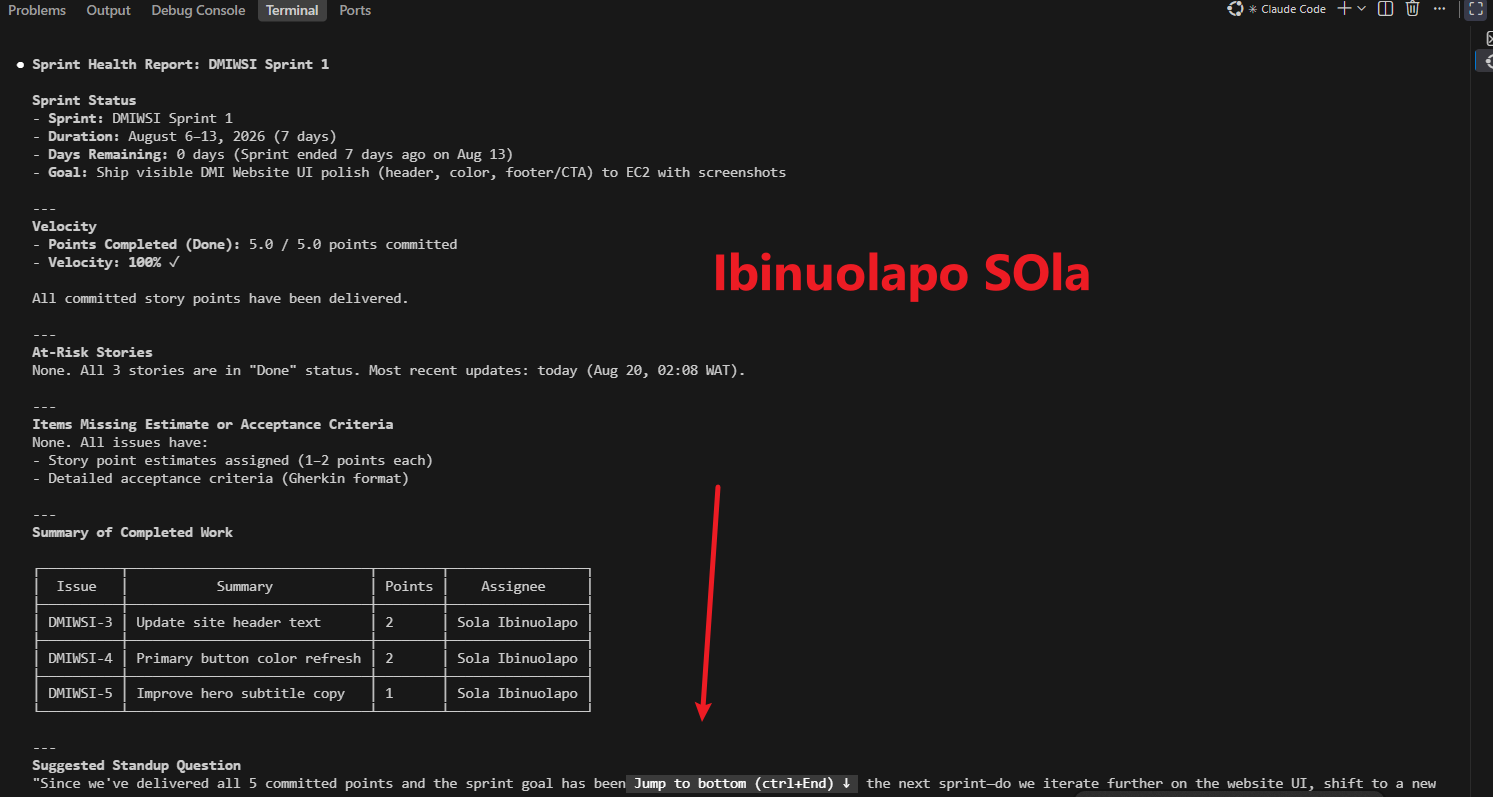
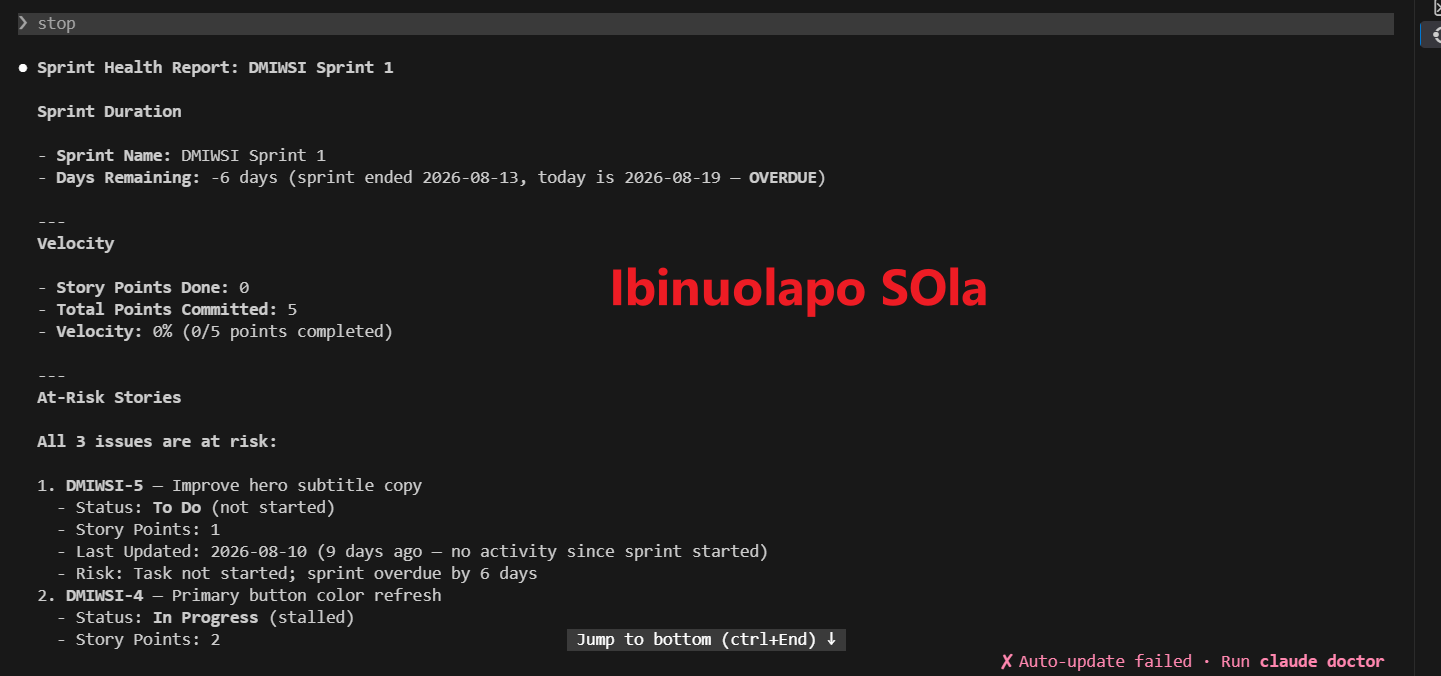
aws uncompleted assignmet add

diff --git a/week-06-aws-cloud/assignment-05-deploy-a-highly-available-two-tier-application-on-aws.md b/week-06-aws-cloud/assignment-05-deploy-a-highly-available-two-tier-application-on-aws.md
@@ -20,31 +20,31 @@ Build a VPC (10.0.0.0/16) with two public and two private subnets across two Ava
 
 #### Screenshot 1 — VPC details showing CIDR 10.0.0.0/16
 
-Add your screenshot here.
+![alt text](image-32.png)
 
 ---
 
 #### Screenshot 2 — Subnets list showing four subnets and their Availability Zones
 
-Add your screenshot here.
+![alt text](image-33.png)
 
 ---
 
 #### Screenshot 3 — Public route table showing the Internet Gateway route and both public-subnet associations
 
-Add your screenshot here.
+![alt text](image-34.png)
 
 ---
 
 #### Screenshot 4 — Private route table showing the NAT Gateway route and both private-subnet associations
 
-Add your screenshot here.
+![alt text](image-35.png)
 
 ---
 
 #### Screenshot 5 — NAT Gateway status showing Available and the Elastic IP
 
-Add your screenshot here.
+![alt text](image-36.png)
 
 ---
 
@@ -58,19 +58,19 @@ Create `ha-alb-sg` (HTTP public), `ha-web-sg` (HTTP only from `ha-alb-sg`, SSH f
 
 #### Screenshot 6 — ALB Security Group inbound rules
 
-Add your screenshot here.
+![alt text](image-39.png)
 
 ---
 
 #### Screenshot 7 — EC2 Security Group inbound rules showing the ALB Security Group reference and SSH from your IP
 
-Add your screenshot here.
+![alt text](image-38.png)
 
 ---
 
 #### Screenshot 8 — RDS Security Group inbound rule showing the database port allowed only from the EC2 Security Group
 
-Add your screenshot here.
+![alt text](image-40.png)
 
 ---
 
@@ -84,13 +84,13 @@ Launch a private, Multi-AZ RDS database (MySQL or PostgreSQL) using the private 
 
 #### Screenshot 9 — RDS summary showing Multi-AZ = Yes and Publicly accessible = No
 
-Add your screenshot here.
+![alt text](image-42.png)
 
 ---
 
 #### Screenshot 10 — RDS connectivity section showing the DB Subnet Group and Security Group
 
-Add your screenshot here.
+![alt text](image-41.png)
 
 ---
 
@@ -104,13 +104,13 @@ Create a Launch Template whose user data installs the web-server runtime, deploy
 
 #### Screenshot 11 — Launch Template details showing that user data exists, including a visible snippet
 
-Add your screenshot here.
+![alt text](image-44.png)
 
 ---
 
 #### Screenshot 12 — A running instance created from the template showing that the application responds on port 80 through a local test or browser using its public IP
 
-Add your screenshot here.
+![alt text](image-45.png)
 
 ---
 
@@ -124,13 +124,13 @@ Create an internet-facing ALB across both public subnets with an HTTP listener a
 
 #### Screenshot 13 — ALB details showing two public subnets in two Availability Zones
 
-Add your screenshot here.
+![alt text](image-46.png)
 
 ---
 
 #### Screenshot 14 — Target group showing at least one healthy target
 
-Add your screenshot here.
+![alt text](image-47.png)
 
 ---
 
@@ -144,13 +144,13 @@ Create an Auto Scaling Group from the Launch Template across both public subnets
 
 #### Screenshot 15 — Auto Scaling Group showing desired, minimum, and maximum capacity and the selected subnet Availability Zones
 
-Add your screenshot here.
+![alt text](image-48.png)
 
 ---
 
 #### Screenshot 16 — EC2 instances list showing two running instances in different Availability Zones
 
-Add your screenshot here.
+![alt text](image-49.png)
 
 ---
 

diff --git a/week-06-aws-cloud/assignment-04-deploy-epicbook-on-ubuntu-vm-and-mysql-rds.md b/week-06-aws-cloud/assignment-04-deploy-epicbook-on-ubuntu-vm-and-mysql-rds.md
@@ -174,13 +174,13 @@ Copy the frontend files to the Nginx web root and configure Nginx to reverse-pro
 
 #### Screenshot 17 — `nginx -t` success output
 
-Add your screenshot here.
+![alt text](image-28.png)
 
 ---
 
 #### Screenshot 18 — Nginx configuration snippet showing the `/api/` reverse proxy
 
-Add your screenshot here.
+![alt text](image-29.png)
 
 ---
 
@@ -194,19 +194,19 @@ Verify the frontend loads publicly, the backend responds through Nginx, and EC2 
 
 #### Screenshot 19 — Browser showing the EpicBook application loaded with the public IP visible
 
-![alt text](image-9.
+![alt text](image-43.png)
 
 ---
 
 #### Screenshot 20 — Terminal showing a successful API call through the public endpoint, such as `curl http://<EC2_PUBLIC_IP>/api/...`
 
-Add your screenshot here.
+![alt text](image-30.png)
 
 ---
 
 #### Screenshot 21 — Terminal showing the successful database connectivity test using `SELECT 1;` or similar
 
-Add your screenshot here.
+![alt text](image-31.png)
 
 ---
 

diff --git a/week-06-aws-cloud/assignment-06-capstone-deploy-book-review-app-three-tier-architecture-on-aws.md b/week-06-aws-cloud/assignment-06-capstone-deploy-book-review-app-three-tier-architecture-on-aws.md
@@ -34,13 +34,13 @@ Record the AWS Region used and list every AWS service used across networking, co
 
 **Region:**
 
-Write your answer here.
+Europe (stockholm)
 
 ---
 
 **Services:**
 
-Write your answer here.
+VPC, EC2, Load balancer, Security group, RDS, Mysql database 
 
 ---
 
